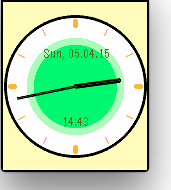
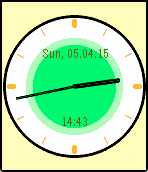
update screenshots

diff --git a/README.md b/README.md
@@ -5,6 +5,6 @@ Based on the example ks-clock-face.
 Animated color Pebble watchface. Expands from a dot, sweeping the clock arms as it does so. 
 There are two inner circles inside the clock face. One is filling up the clock face every hour, one for the whole day.
 
-![](screenshots/screenshot.png)
+![](screenshots/screenshot.png) ![](screenshots/screenshot2.png)
 
 
